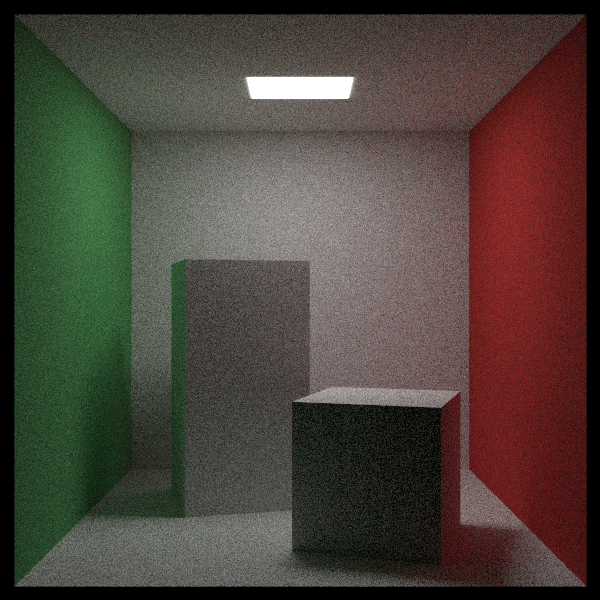
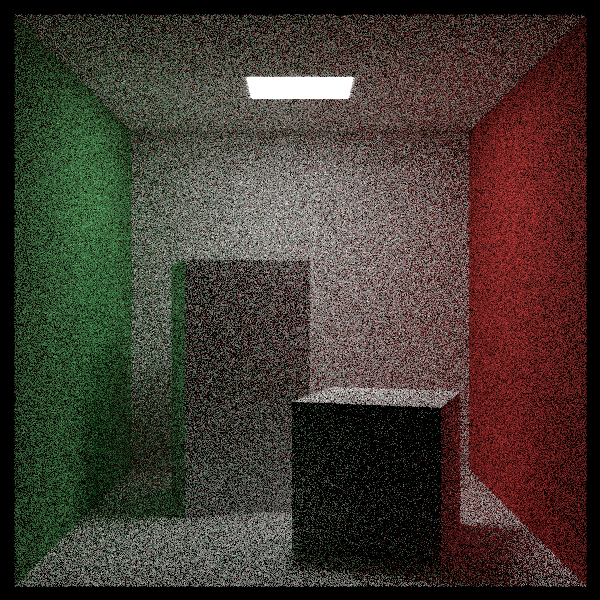
lower spp

diff --git a/src/main.rs b/src/main.rs
@@ -114,7 +114,7 @@ pub fn cornell_box() -> (HittableList, Camera) {
     let cam = Camera::new(CameraOptions {
         aspect_ratio: 1.0,
         image_width: 600,
-        samples_per_pixel: 1000,
+        samples_per_pixel: 100,
         v_fov: 40.0,
         look_from: point3(278.0, 278.0, -800.0),
         look_at: point3(278.0, 278.0, 0.0),
